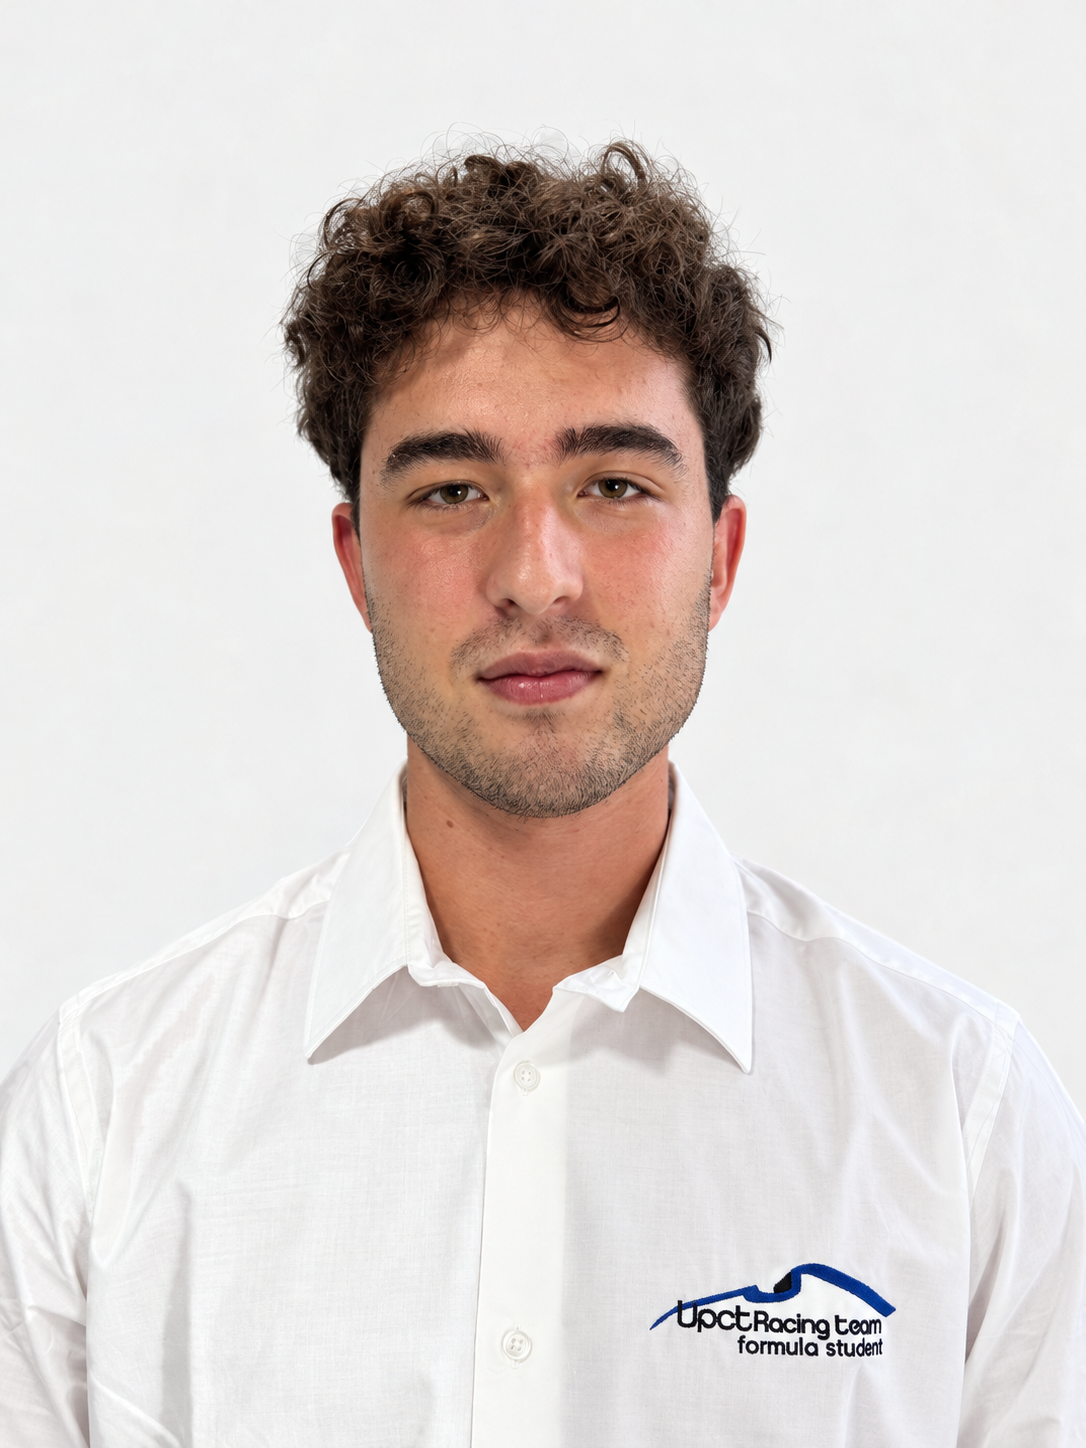
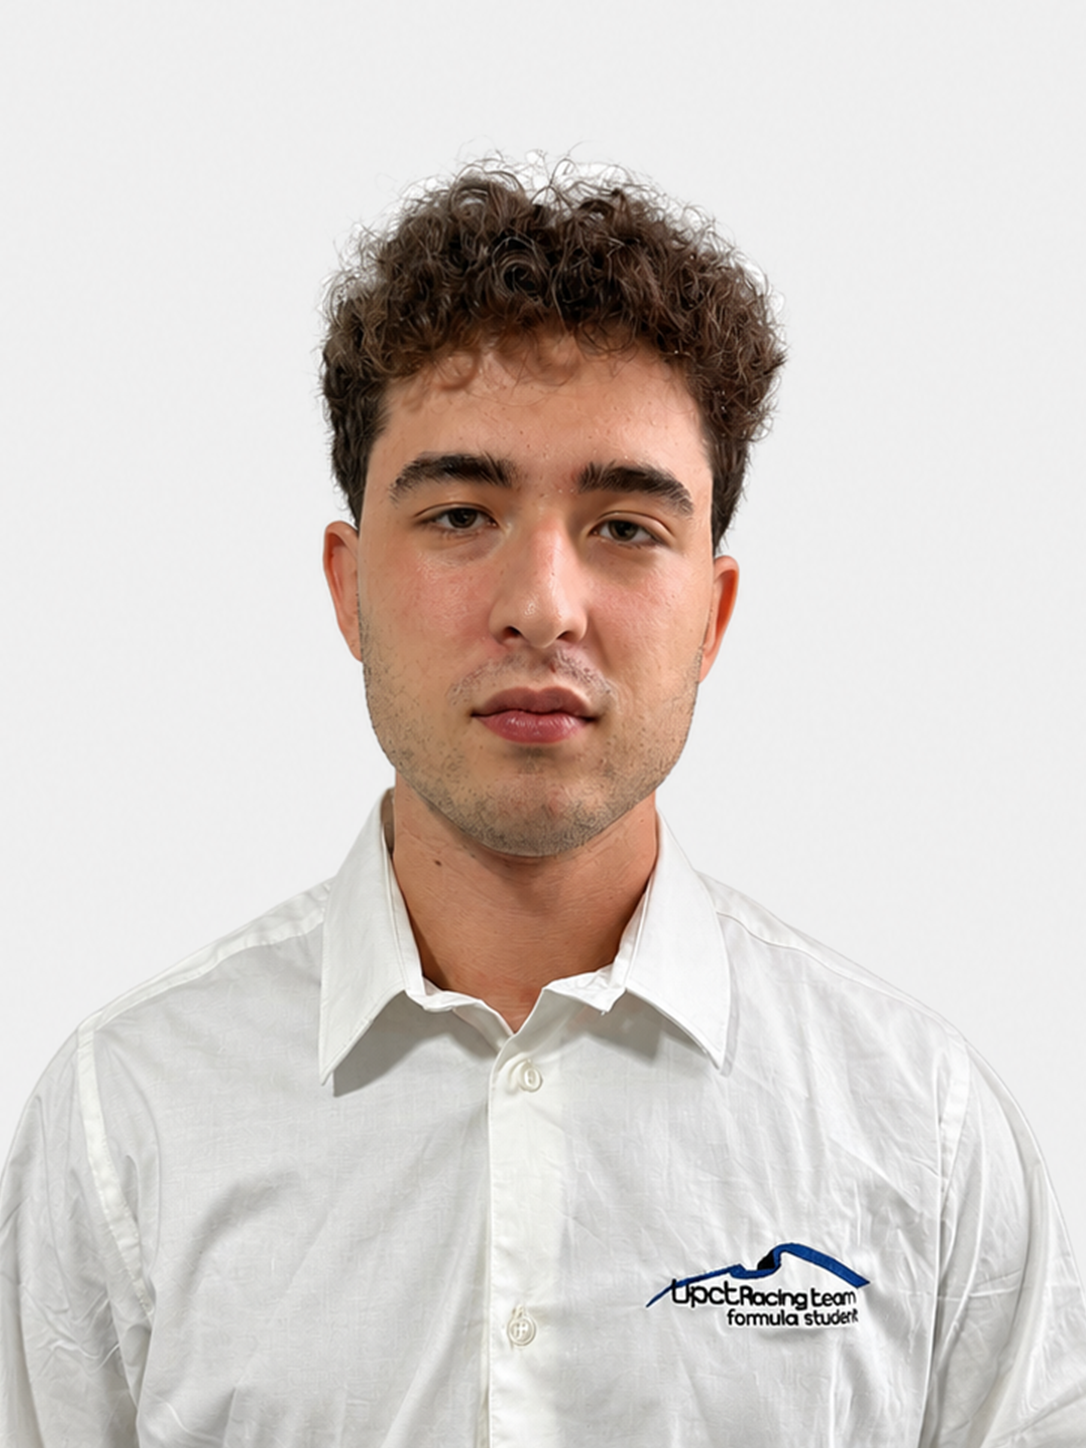
Equipo: fotos de Gerardo, David, Nahuel, Sofia, Mario y nueva de Jesus; sin Cloe; portada a 65 personas

diff --git a/data/team.js b/data/team.js
@@ -57,7 +57,8 @@ UPCT.team = {
       miembros: [
         { nombre: "Pablo Alba",        foto: "motor-pablo-alba.png",        original: true, linkedin: "" },   // coordinador
         { nombre: "Alejandro Sánchez", foto: "motor-alejandro-sanchez.png", original: true, linkedin: "" },
-        { nombre: "Vasile Catalin",    foto: "motor-vasile-catalin.png",    original: true, linkedin: "" }
+        { nombre: "Vasile Catalin",    foto: "motor-vasile-catalin.png",    original: true, linkedin: "" },
+        { nombre: "Gerardo Martínez",  foto: "motor-gerardo-martinez.png",  original: true, linkedin: "" }
       ]
     },
 
@@ -106,7 +107,8 @@ UPCT.team = {
         { nombre: "Sergio Múgica",       foto: "transmision-frenos-sergio-mugica.png",       original: true, linkedin: "https://www.linkedin.com/in/sergio-m%C3%BAgica-v%C3%A9lez-4a56b93a5/" },   // coordinador
         { nombre: "Antonio Arias",       foto: "transmision-frenos-antonio-arias.png",       original: true, linkedin: "" },
         { nombre: "Andrés Fernández",    foto: "transmision-frenos-andres-fernandez.png",    original: true, linkedin: "" },
-        { nombre: "Jose Carlos Sánchez", foto: "transmision-frenos-jose-carlos-sanchez.png", original: true, linkedin: "" }
+        { nombre: "Jose Carlos Sánchez", foto: "transmision-frenos-jose-carlos-sanchez.png", original: true, linkedin: "" },
+        { nombre: "David Saldaña",        foto: "transmision-frenos-david-saldana.png",        original: true, linkedin: "" }
       ]
     },
 
@@ -123,10 +125,10 @@ UPCT.team = {
         { nombre: "Izan González", foto: "electrica-izan.png",         original: true, linkedin: "" },
         { nombre: "Alejandro Hita", foto: "electrica-alejandro.png",    original: true, linkedin: "" },
         { nombre: "Pedro Lucas", foto: "electrica-pedro.png",        original: true, linkedin: "" },
-        { nombre: "Cloe Fernández", foto: "electrica-cloe.png",         original: true, linkedin: "" },
         { nombre: "Álvaro Mulero", foto: "electrica-alvaro.png",       original: true, linkedin: "" },
         { nombre: "Irene Calatrava", foto: "electrica-irene.png",        original: true, linkedin: "" },
-        { nombre: "Jesús Buitrago", foto: "electrica-jesus.png",        original: true, linkedin: "" }
+        { nombre: "Jesús Buitrago", foto: "electrica-jesus.png",        original: true, linkedin: "" },
+        { nombre: "Nahuel Remón",  foto: "electrica-nahuel-remon.png", original: true, linkedin: "" }
       ]
     },
 
@@ -140,10 +142,10 @@ UPCT.team = {
         { nombre: "Rafael Ramírez",    foto: "dinamica-rafael-ramirez.png", original: true, linkedin: "" },
         { nombre: "Sergio Alcaraz",    foto: "dinamica-sergio-alcaraz.png", original: true, linkedin: "" },
         { nombre: "Sergio de Haro",    foto: "dinamica-sergio-de-haro.png", original: true, linkedin: "" },
-        { nombre: "Sofia Orenes",      foto: "dinamica-05.svg", linkedin: "" },
+        { nombre: "Sofía Orenes",      foto: "dinamica-sofia-orenes.png", original: true, linkedin: "" },
         { nombre: "Salsabi Raissouni", foto: "dinamica-06.svg", linkedin: "" },
         { nombre: "Vicente Morales",   foto: "dinamica-07.svg", linkedin: "" },
-        { nombre: "Mario Serrano",     foto: "dinamica-08.svg", linkedin: "" },
+        { nombre: "Mario Serrano",     foto: "dinamica-mario-serrano.png", original: true, linkedin: "" },
         { nombre: "Jaime Jover",       foto: "dinamica-09.svg", linkedin: "" }
       ]
     },

diff --git a/data/site.js b/data/site.js
@@ -132,7 +132,7 @@ UPCT.site = {
   fundacion: 2008,
 
   /* Cifras de la portada. «personas» fija el número de estudiantes del equipo (si lo quitas, se cuentan los de data/team.js). */
-  cifras: { personas: 63 },
+  cifras: { personas: 65 },
 
   /* Redes sociales (se abren en pestaña nueva), con icono en blanco.
      Para añadir otra, copia una línea y escribe su URL completa.
